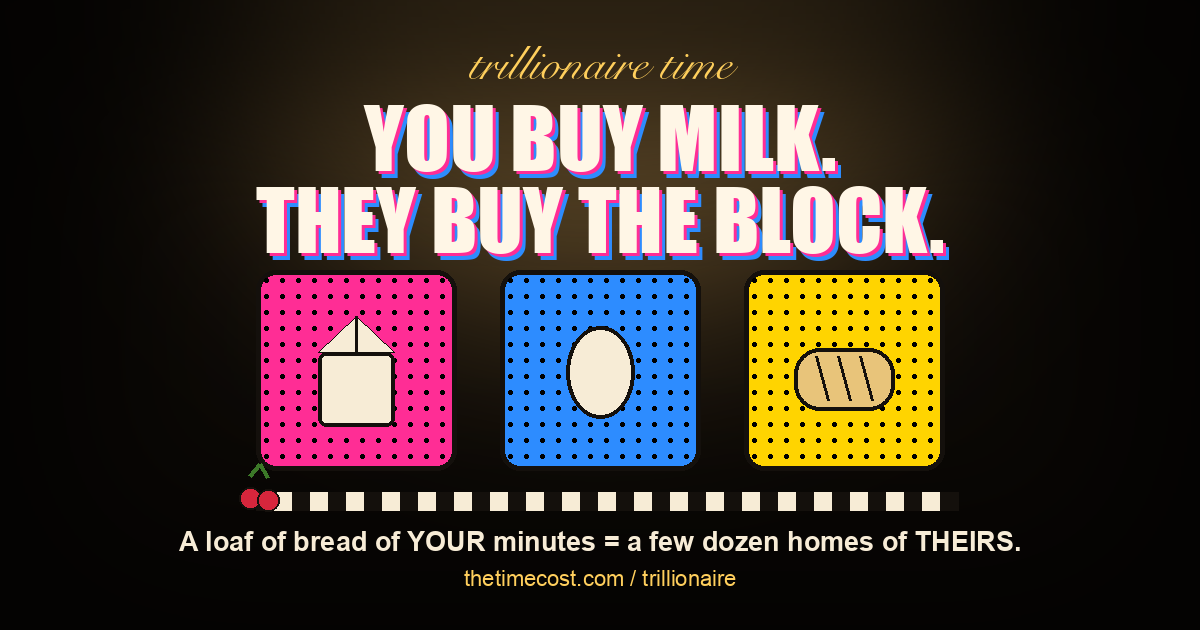
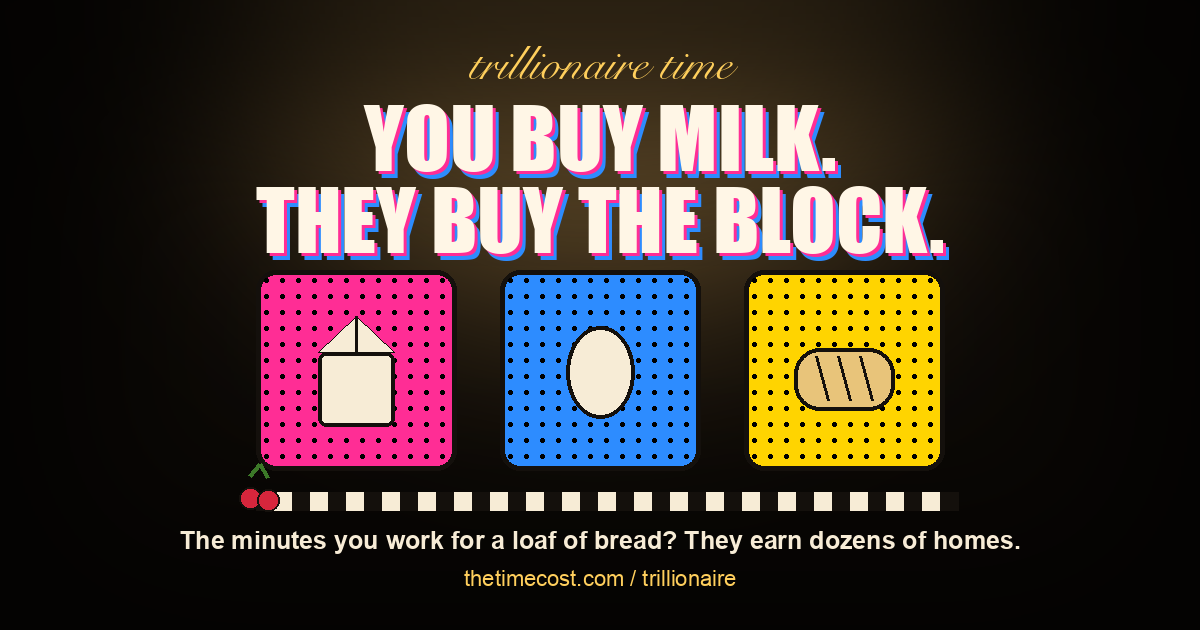
Clarify the 'loaf of bread' line (image + page)
The punchline buried the whole point (the *same minutes*). Rewrite it on both
the OG image and the page plaque to make the pivot explicit: 'The minutes you
work for a loaf of bread? They earn dozens of homes.' Regenerated the OG PNG.

Changed region(s): [[0.1542, 0.8444, 0.8633, 0.8746]]

diff --git a/templates/trillionaire.html b/templates/trillionaire.html
@@ -179,7 +179,7 @@
 
     <div class="trill-plaque">
       <div class="saying">"Time is the real currency, sugar." 🍒</div>
-      <p style="margin:8px 0 0; font-size:.9rem;">A loaf of bread of <em>your</em> minutes is a few dozen houses of <em>theirs</em>. Bless.</p>
+      <p style="margin:8px 0 0; font-size:.9rem;">In the few minutes it takes <em>you</em> to earn a loaf of bread, <em>they</em> earn dozens of family homes. Same minutes. Bless.</p>
     </div>
 
     <div class="trill-foot">

diff --git a/scripts/generate_trillionaire_og.py b/scripts/generate_trillionaire_og.py
@@ -94,8 +94,8 @@ def cherry(cx, cy):
 cherry(x0 - 6, ry + 6)
 
 # --- punchline + footer ---
-d.text((W // 2, ry + 34), "A loaf of bread of YOUR minutes = a few dozen homes of THEIRS.",
-       font=arialb(27), fill=CREAM, anchor="ma")
+d.text((W // 2, ry + 34), "The minutes you work for a loaf of bread? They earn dozens of homes.",
+       font=arialb(25), fill=CREAM, anchor="ma")
 d.text((W // 2, ry + 74), "thetimecost.com / trillionaire", font=arial(22), fill=GOLD, anchor="ma")
 
 out = os.path.join(os.path.dirname(__file__), os.pardir, "static", "og-trillionaire.png")